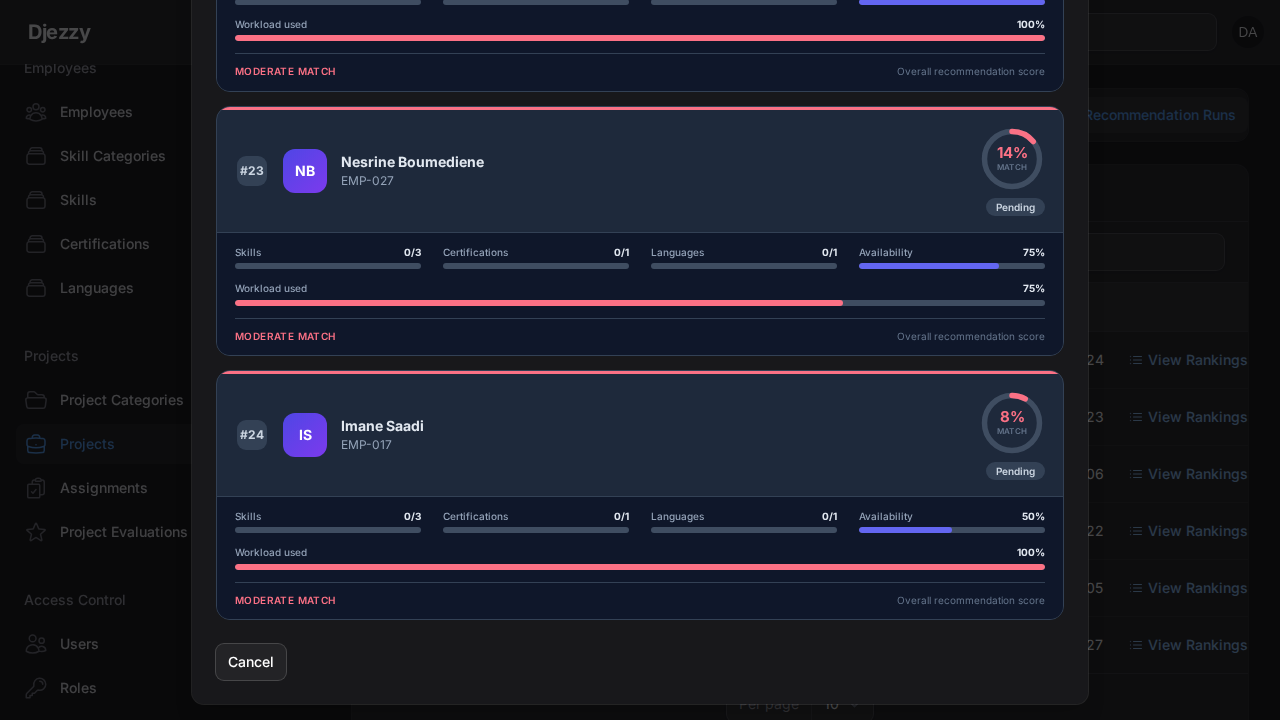
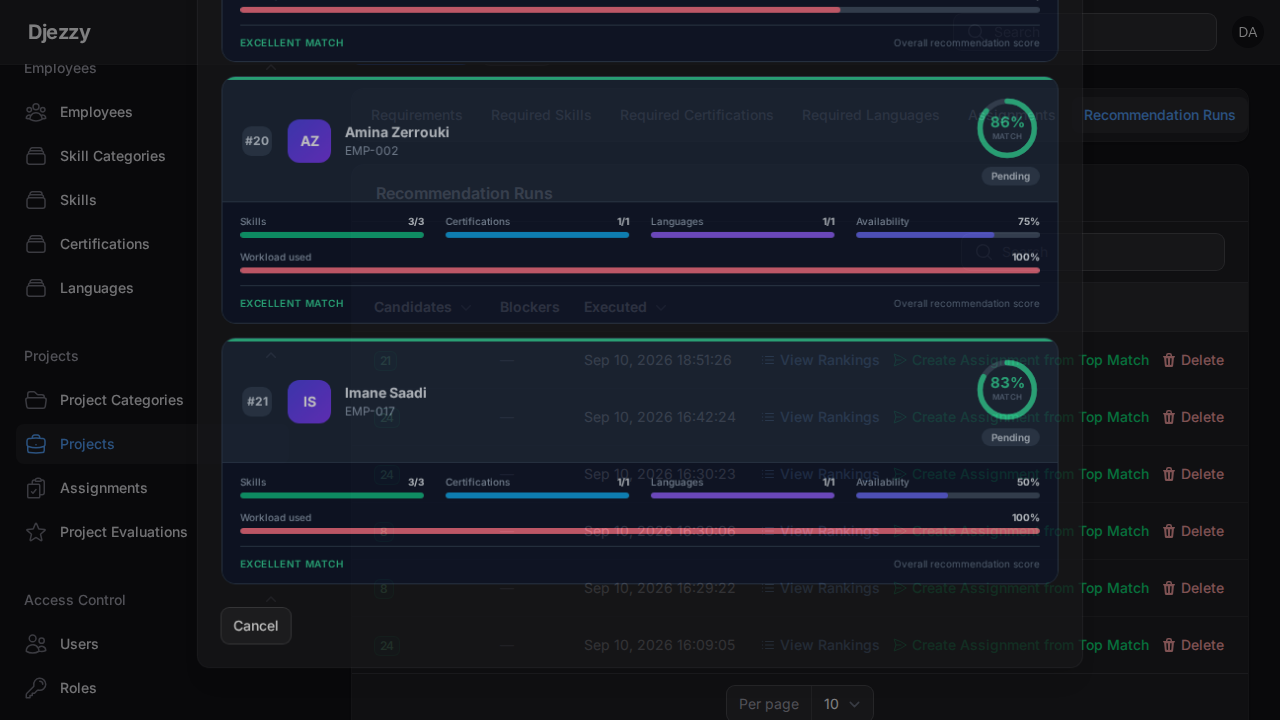
fix: surface mandatory blockers and make demo seed data satisfiable

diff --git a/tests/e2e/assignments-flow.spec.ts b/tests/e2e/assignments-flow.spec.ts
@@ -75,7 +75,7 @@ test.describe('recommendations modal rendering', () => {
         await expect(list).toBeVisible({ timeout: 10_000 });
         await expect(list.locator('> div').first()).toBeVisible();
 
-        await expect(list).toContainText(/match/i);
+        await expect(list).toContainText(/match|mandatory requirement/i);
 
         await page.screenshot({
             fullPage: false,

diff --git a/database/seeders/EmployeeSeeder.php b/database/seeders/EmployeeSeeder.php
@@ -26,8 +26,13 @@ class EmployeeSeeder extends Seeder
     public function run(): void
     {
         $skills = Skill::pluck('id')->all();
-        $certifications = Certification::pluck('id')->all();
-        $languages = Language::pluck('id')->all();
+        $coreCertificationSlugs = [
+            'cisco-ccna', 'cisco-ccnp', 'aws-solutions-architect', 'azure-administrator',
+            'certified-information-systems-security-professional', 'certified-scrum-master',
+            'pmp', 'oracle-certified-professional', 'google-cloud-professional', 'red-hat-certified-engineer',
+        ];
+        $coreCertifications = Certification::whereIn('slug', $coreCertificationSlugs)->pluck('id')->all();
+        $allLanguages = Language::pluck('id')->all();
         $departments = Department::pluck('id')->all();
         $teams = Team::pluck('id')->all();
         $positions = Position::pluck('id')->all();
@@ -63,34 +68,32 @@ class EmployeeSeeder extends Seeder
                 'biography' => fake()->paragraph(2),
             ]);
 
-            $employee->skills()->attach(fake()->randomElements($skills, fake()->numberBetween(3, 6)), [
-                'proficiency_level' => fake()->numberBetween(2, 5),
-                'years_experience' => fake()->randomFloat(2, 1, 12),
-                'last_used_at' => fake()->dateTimeBetween('-6 months', 'now')->format('Y-m-d'),
-                'verified_at' => fake()->boolean(60) ? now()->subDays(fake()->numberBetween(1, 200)) : null,
-            ]);
+            foreach ($skills as $skillId) {
+                $employee->skills()->attach($skillId, [
+                    'proficiency_level' => fake()->randomElement([4, 5]),
+                    'years_experience' => fake()->randomFloat(2, 2, 12),
+                    'last_used_at' => fake()->dateTimeBetween('-6 months', 'now')->format('Y-m-d'),
+                    'verified_at' => fake()->boolean(80) ? now()->subDays(fake()->numberBetween(1, 200)) : null,
+                ]);
+            }
 
-            $employee->certifications()->attach(fake()->randomElements($certifications, fake()->numberBetween(1, 3)), [
-                'certificate_number' => strtoupper((string) fake()->bothify('???-######')),
-                'issued_at' => fake()->dateTimeBetween('-4 years', 'now')->format('Y-m-d'),
-                'verification_status' => fake()->randomElement([
-                    CertificationVerificationStatus::Verified,
-                    CertificationVerificationStatus::Verified,
-                    CertificationVerificationStatus::Pending,
-                ]),
-            ]);
+            foreach ($coreCertifications as $certificationId) {
+                $employee->certifications()->attach($certificationId, [
+                    'certificate_number' => strtoupper((string) fake()->bothify('???-######')),
+                    'issued_at' => fake()->dateTimeBetween('-3 years', 'now')->format('Y-m-d'),
+                    'verification_status' => CertificationVerificationStatus::Verified,
+                ]);
+            }
 
-            $employee->languages()->attach($languages[0], [
-                'speaking_level' => LanguageLevel::Native,
-                'writing_level' => LanguageLevel::Native,
-                'reading_level' => LanguageLevel::Native,
-            ]);
-
-            $employee->languages()->attach(fake()->randomElements(array_slice($languages, 1), fake()->numberBetween(1, 2)), [
-                'speaking_level' => fake()->randomElement([LanguageLevel::Intermediate, LanguageLevel::Advanced]),
-                'writing_level' => fake()->randomElement([LanguageLevel::Intermediate, LanguageLevel::Advanced]),
-                'reading_level' => fake()->randomElement([LanguageLevel::Intermediate, LanguageLevel::Advanced]),
-            ]);
+            foreach ($allLanguages as $languageId) {
+                $isArabic = $languageId === $allLanguages[0];
+                $level = $isArabic ? LanguageLevel::Native : LanguageLevel::Advanced;
+                $employee->languages()->attach($languageId, [
+                    'speaking_level' => $level,
+                    'writing_level' => $level,
+                    'reading_level' => $level,
+                ]);
+            }
 
             EmployeeAvailability::create([
                 'employee_id' => $employee->id,

diff --git a/app/Services/RecommendationService.php b/app/Services/RecommendationService.php
@@ -56,14 +56,6 @@ class RecommendationService
 
     public function run(Project $project, User $executedBy): RecommendationRun
     {
-        $run = RecommendationRun::create([
-            'project_id' => $project->id,
-            'executed_by' => $executedBy->id,
-            'algorithm_version' => self::ALGORITHM_VERSION,
-            'criteria_snapshot' => $this->buildCriteriaSnapshot($project),
-            'executed_at' => now(),
-        ]);
-
         $mode = $project->assignment_mode;
 
         $eligibleCount = match ($mode) {
@@ -77,6 +69,17 @@ class RecommendationService
             AssignmentMode::Department => $this->scoreDepartments($project),
             default => $this->scoreEmployees($project),
         };
+
+        $blockers = $scored->isEmpty() ? $this->mandatoryBlockers($project) : null;
+
+        $run = RecommendationRun::create([
+            'project_id' => $project->id,
+            'executed_by' => $executedBy->id,
+            'algorithm_version' => self::ALGORITHM_VERSION,
+            'criteria_snapshot' => $this->buildCriteriaSnapshot($project),
+            'blockers' => $blockers,
+            'executed_at' => now(),
+        ]);
 
         $rank = 0;
         foreach ($scored as $item) {
@@ -104,6 +107,7 @@ class RecommendationService
                 'candidates_count' => $scored->count(),
                 'eligible_count' => $eligibleCount,
                 'excluded_by_mandatory' => max(0, $eligibleCount - $scored->count()),
+                'blockers' => $blockers,
                 'rankings' => $rank,
             ],
             $executedBy,
@@ -420,6 +424,39 @@ class RecommendationService
         }
 
         return null;
+    }
+
+    /**
+     * Collects human-readable reasons explaining why no candidate could meet
+     * the project's mandatory requirements. Computed across the active
+     * workforce, so it is independent of the run's assignment mode.
+     *
+     * @return array<int, string>
+     */
+    private function mandatoryBlockers(Project $project): array
+    {
+        $employees = Employee::query()
+            ->where('employment_status', EmploymentStatus::Active->value)
+            ->with(['skills', 'certifications', 'languages'])
+            ->get();
+
+        $reasons = [];
+
+        foreach ($employees as $employee) {
+            $reason = $this->mandatoryRequirementReason($project, $employee->skills, $employee->certifications, $employee->languages);
+
+            if ($reason !== null) {
+                $reasons[$reason] = true;
+            }
+        }
+
+        $blockers = array_keys($reasons);
+
+        if ($blockers === [] && $employees->isNotEmpty()) {
+            return ['No single candidate satisfies every mandatory requirement combined.'];
+        }
+
+        return array_slice($blockers, 0, 8);
     }
 
     /** @return array{matched: int, total: int, score: float} */

diff --git a/tests/Feature/Domain/RecommendationServiceTest.php b/tests/Feature/Domain/RecommendationServiceTest.php
@@ -561,4 +561,47 @@ class RecommendationServiceTest extends TestCase
 
         $this->assertEquals(1, $log->new_values['excluded_by_mandatory']);
     }
+
+    public function test_run_records_blockers_when_no_candidate_meets_mandatory_requirements(): void
+    {
+        $project = $this->project();
+        $admin = $this->admin();
+
+        $skill = Skill::factory()->create(['name' => 'Docker']);
+        $project->requiredSkills()->attach($skill->id, [
+            'minimum_proficiency' => 5,
+            'is_mandatory' => true,
+            'weight' => 1.0,
+        ]);
+
+        $below = $this->activeEmployee();
+        $below->skills()->attach($skill->id, ['proficiency_level' => 3]);
+        $this->activeEmployee();
+
+        $run = app(RecommendationService::class)->run($project, $admin);
+
+        $this->assertCount(0, $run->recommendations);
+        $this->assertIsArray($run->blockers);
+        $this->assertNotCount(0, $run->blockers);
+        $this->assertStringContainsString('Docker', implode(' ', $run->blockers));
+
+        $log = AuditLog::where('action', 'recommendation.run')
+            ->where('auditable_id', $run->id)
+            ->firstOrFail();
+        $this->assertEquals($run->blockers, $log->new_values['blockers']);
+        $this->assertEquals(2, $log->new_values['excluded_by_mandatory']);
+    }
+
+    public function test_run_has_no_blockers_when_candidates_meet_requirements(): void
+    {
+        $project = $this->project();
+        $admin = $this->admin();
+
+        $this->activeEmployee();
+
+        $run = app(RecommendationService::class)->run($project, $admin);
+
+        $this->assertNull($run->blockers);
+        $this->assertNotNull($run->recommendations);
+    }
 }

diff --git a/app/Filament/Admin/Resources/Projects/RelationManagers/RecommendationsRelationManager.php b/app/Filament/Admin/Resources/Projects/RelationManagers/RecommendationsRelationManager.php
@@ -54,7 +54,16 @@ class RecommendationsRelationManager extends RelationManager
                 TextColumn::make('recommendations_count')
                     ->label('Candidates')
                     ->counts('recommendations')
+                    ->badge()
+                    ->color(fn ($record) => $record->recommendations()->count() === 0 ? Color::Red : Color::Green)
                     ->sortable(),
+                TextColumn::make('blockers')
+                    ->label('Blockers')
+                    ->formatStateUsing(fn ($state) => is_array($state) && $state !== [] ? count($state).' unresolved mandatory requirement(s)' : null)
+                    ->badge()
+                    ->color(fn ($state) => is_array($state) && $state !== [] ? Color::Red : Color::Gray)
+                    ->tooltip(fn ($record) => $record->blockers !== null ? implode(PHP_EOL, $record->blockers) : '')
+                    ->placeholder('—'),
                 TextColumn::make('executed_at')
                     ->label('Executed')
                     ->dateTime()
@@ -72,6 +81,7 @@ class RecommendationsRelationManager extends RelationManager
                             ->with(['employee', 'team', 'department'])
                             ->orderBy('rank')
                             ->get(),
+                        'blockers' => $record->blockers,
                     ]))
                     ->modalSubmitAction(false),
                 Action::make('create_assignment_from_top_match')

diff --git a/tests/Feature/Domain/SeedDataProducesRecommendationsTest.php b/tests/Feature/Domain/SeedDataProducesRecommendationsTest.php
@@ -1,0 +1,44 @@
+<?php
+
+namespace Tests\Feature\Domain;
+
+use App\Models\Employee;
+use App\Models\Project;
+use App\Models\User;
+use App\Services\RecommendationService;
+use Database\Seeders\DatabaseSeeder;
+use Illuminate\Foundation\Testing\RefreshDatabase;
+use Tests\TestCase;
+
+class SeedDataProducesRecommendationsTest extends TestCase
+{
+    use RefreshDatabase;
+
+    public function test_every_seeded_project_yields_recommendations(): void
+    {
+        $this->seed(DatabaseSeeder::class);
+
+        $admin = User::where('email', 'admin@djezzy.test')->firstOrFail();
+        $projects = Project::all();
+
+        $this->assertNotCount(0, $projects);
+        $this->assertGreaterThan(0, Employee::where('employment_status', 'active')->count());
+
+        foreach ($projects as $project) {
+            $run = app(RecommendationService::class)->run($project, $admin);
+
+            $recs = $run->recommendations()->orderBy('rank')->get();
+
+            $this->assertGreaterThan(
+                0,
+                $recs->count(),
+                "[{$project->name}] ({$project->assignment_mode->value}) produced no recommendations",
+            );
+
+            $this->assertNull(
+                $run->blockers,
+                "[{$project->name}] unexpectedly recorded mandatory blockers: ".implode('; ', $run->blockers ?? []),
+            );
+        }
+    }
+}

diff --git a/database/seeders/ProjectSeeder.php b/database/seeders/ProjectSeeder.php
@@ -82,14 +82,19 @@ class ProjectSeeder extends Seeder
         }
 
         $skills = Skill::pluck('id')->all();
-        $certifications = Certification::pluck('id')->all();
+        $coreCertificationSlugs = [
+            'cisco-ccna', 'cisco-ccnp', 'aws-solutions-architect', 'azure-administrator',
+            'certified-information-systems-security-professional', 'certified-scrum-master',
+            'pmp', 'oracle-certified-professional', 'google-cloud-professional', 'red-hat-certified-engineer',
+        ];
+        $certifications = Certification::whereIn('slug', $coreCertificationSlugs)->pluck('id')->all();
         $languages = Language::pluck('id')->all();
 
         foreach ($created as $project) {
             foreach (fake()->randomElements($skills, fake()->numberBetween(2, 4)) as $skillId) {
                 $project->requiredSkills()->attach($skillId, [
-                    'minimum_proficiency' => fake()->numberBetween(3, 5),
-                    'minimum_years_experience' => fake()->randomFloat(1, 1, 6),
+                    'minimum_proficiency' => fake()->numberBetween(3, 4),
+                    'minimum_years_experience' => fake()->randomFloat(1, 2, 6),
                     'is_mandatory' => fake()->boolean(60),
                     'weight' => fake()->randomFloat(2, 0.5, 5),
                 ]);

diff --git a/resources/views/filament/admin/recommendations-modal.blade.php b/resources/views/filament/admin/recommendations-modal.blade.php
@@ -208,7 +208,16 @@
     @empty
         <div style="border: 1px dashed var(--rv-border); border-radius: 14px; background: var(--rv-soft); padding: 36px 20px; text-align: center;">
             <div style="font-size: 13px; font-weight: 600; color: var(--rv-text);">No recommendations available</div>
-            <div style="font-size: 11px; color: var(--rv-dim); margin-top: 4px;">Run the recommendation engine to generate candidate matches.</div>
+            @if (! empty($blockers))
+                <div style="font-size: 11px; color: var(--rv-muted); margin-top: 8px; text-align: left; display: inline-block;">
+                    <div style="font-weight: 600; margin-bottom: 4px;">No candidate met the mandatory requirements:</div>
+                    @foreach ($blockers as $blocker)
+                        <div style="padding-left: 10px;">• {{ $blocker }}</div>
+                    @endforeach
+                </div>
+            @else
+                <div style="font-size: 11px; color: var(--rv-dim); margin-top: 4px;">Run the recommendation engine to generate candidate matches.</div>
+            @endif
         </div>
     @endforelse
 </div>

diff --git a/app/Filament/Admin/Resources/Projects/Pages/EditProject.php b/app/Filament/Admin/Resources/Projects/Pages/EditProject.php
@@ -114,6 +114,19 @@ class EditProject extends EditRecord
             $message .= " Top pick: {$targetName} (score: ".number_format($top->total_score * 100, 1).'%).';
         }
 
+        if ($count === 0) {
+            $blockers = $run->blockers ?? ['No candidate meets every mandatory requirement.'];
+
+            $notification = Notification::make()
+                ->title('No Candidates Found')
+                ->body('No candidate met the mandatory requirements for this project.'.PHP_EOL.'• '.implode(PHP_EOL.'• ', $blockers))
+                ->danger()
+                ->persistent()
+                ->send();
+
+            return;
+        }
+
         Notification::make()
             ->title('Recommendations Generated')
             ->body($message)

diff --git a/app/Models/RecommendationRun.php b/app/Models/RecommendationRun.php
@@ -14,15 +14,17 @@ use Illuminate\Support\Carbon;
  * @property int $executed_by
  * @property string $algorithm_version
  * @property array<string, mixed> $criteria_snapshot
+ * @property array<int, string>|null $blockers
  * @property Carbon $executed_at
  */
-#[Fillable(['project_id', 'executed_by', 'algorithm_version', 'criteria_snapshot', 'executed_at'])]
+#[Fillable(['project_id', 'executed_by', 'algorithm_version', 'criteria_snapshot', 'blockers', 'executed_at'])]
 class RecommendationRun extends Model
 {
     protected function casts(): array
     {
         return [
             'criteria_snapshot' => 'array',
+            'blockers' => 'array',
             'executed_at' => 'datetime',
         ];
     }

diff --git a/database/migrations/2026_09_10_193000_add_blockers_to_recommendation_runs_table.php b/database/migrations/2026_09_10_193000_add_blockers_to_recommendation_runs_table.php
@@ -1,0 +1,22 @@
+<?php
+
+use Illuminate\Database\Migrations\Migration;
+use Illuminate\Database\Schema\Blueprint;
+use Illuminate\Support\Facades\Schema;
+
+return new class extends Migration
+{
+    public function up(): void
+    {
+        Schema::table('recommendation_runs', function (Blueprint $table) {
+            $table->json('blockers')->nullable()->after('criteria_snapshot');
+        });
+    }
+
+    public function down(): void
+    {
+        Schema::table('recommendation_runs', function (Blueprint $table) {
+            $table->dropColumn('blockers');
+        });
+    }
+};
